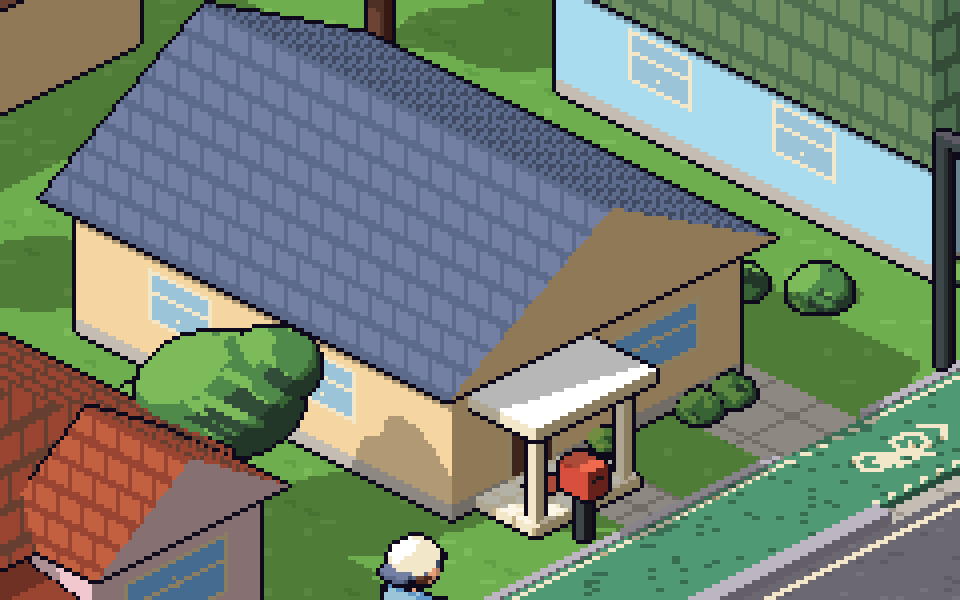
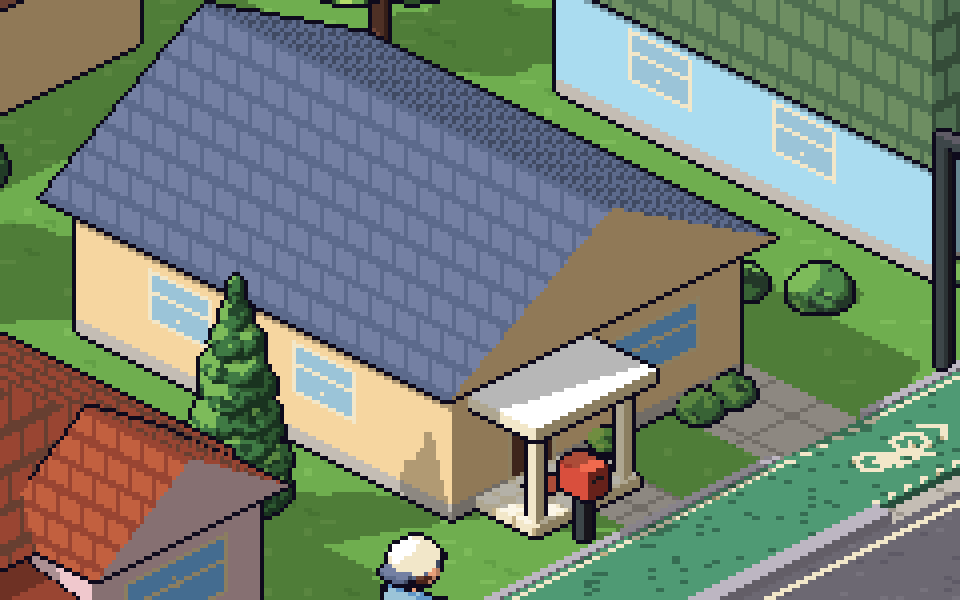
art: tiga jenis pohon perumahan
- lib: pohon rindang (batang bercabang, tajuk bergumpal), glodokan tiang
  (ramping meruncing), ketapang kencana (tajuk datar bertingkat)
- perumahan: pohon halaman dan deret belakang bergantian tiga jenis
- Mock perumahan dirender ulang; ART_DIRECTION 2.6 dan README diperbarui

Claude-Session: https://claude.ai/code/session_01Mx68M7WiMZo9CMYpFx89Kx

diff --git a/tools/env_art/lib.py b/tools/env_art/lib.py
@@ -592,3 +592,115 @@ def antena(s, x, y, z0, z1, n=5, boom=16, seed=0, mat=None, tiang=None):
         s.add(obox(p, side, d, up, L / 2, 0.5, 0.45, mat, part=pid))
     # kawat penahan pendek: elemen kedua lebih rendah di tiang
     s.add(obox(top - up * 5 + d * 1.5, side, d, up, 3.5, 0.45, 0.45, mat, part=pid))
+
+
+# ---------------- pohon perumahan: tiga variasi ----------------
+LEAF_MANGGA = Mat('#8CC860', '#4F8A4A', '#2E5236')
+LEAF_GLODOK = Mat('#7DBB5A', '#3F7A44', '#24482C')
+LEAF_KETAPANG = Mat('#B4DC6A', '#6FAE4F', '#3F6E3A')
+BARK = Mat('#9A6A4E', '#6D4334', '#4A2A20')
+
+
+def _leaf_tex(seed, scale=2.2):
+    def tex(Pw, Nw):
+        cell = np.floor(Pw / scale)
+        h = hash2(cell[:, 0] + cell[:, 2] * 7, cell[:, 1] - cell[:, 2] * 3, seed)
+        d = Nw @ BAKE
+        # gumpalan daun: titik terang di sisi kena cahaya, titik gelap di sisi bayangan
+        sh = np.where((h > 0.7) & (d > 0.35), -1, np.where((h < 0.28) & (d < 0.75), 1, 0))
+        return 0, sh
+    return tex
+
+
+def _limb(s, a, b, r, mat, part):
+    a, b = np.asarray(a, float), np.asarray(b, float)
+    d = b - a
+    L = np.linalg.norm(d)
+    d /= L
+    sd = np.cross(d, [0, 0, 1.0])
+    if np.linalg.norm(sd) < 1e-3:
+        sd = np.array([1.0, 0, 0])
+    sd /= np.linalg.norm(sd)
+    s.add(obox((a + b) / 2, d, sd, np.cross(d, sd), L / 2 + r * 0.4, r, r, mat, part=part))
+    return s.prims[-1].part
+
+
+def tree_rindang(s, x, y, h=22, r=17, seed=0):
+    """Pohon rindang (mangga/kersen): batang bercabang, tajuk lebar dari banyak gumpalan."""
+    rng = np.random.default_rng(seed)
+    s.add(cyl((x, y), 2.4, 0, h * 0.6, mats=BARK))
+    pid = s.prims[-1].part
+    base = np.array([x, y, h * 0.55])
+    tips = []
+    for i in range(3):
+        a = 2 * math.pi * i / 3 + rng.random() * 0.6
+        tip = base + np.array([math.cos(a) * r * 0.45, math.sin(a) * r * 0.45, h * 0.45 + rng.random() * 4])
+        _limb(s, base, tip, 1.3, BARK, pid)
+        tips.append(tip)
+    crown = None
+    tex = _leaf_tex(seed)
+    # gumpalan: satu besar di tengah atas, lalu lingkaran gumpalan di tepi dan bawah
+    blobs = [(np.array([x, y, h + r * 0.55]), r * 0.62)]
+    for i in range(7):
+        a = 2 * math.pi * i / 7 + rng.random() * 0.4
+        rr = r * (0.42 + rng.random() * 0.12)
+        c = np.array([x + math.cos(a) * r * 0.62, y + math.sin(a) * r * 0.62, h + r * (0.15 + rng.random() * 0.3)])
+        blobs.append((c, rr))
+    for t in tips:
+        blobs.append((t + np.array([0, 0, r * 0.25]), r * 0.4))
+    for k, (c, rr) in enumerate(blobs):
+        # gumpalan tepi diberi garis sendiri supaya siluetnya bergelombang
+        s.add(ellip(c, (rr, rr, rr * 0.82), LEAF_MANGGA, tex, part=None if k else crown))
+        crown = crown or s.prims[-1].part
+
+
+def tree_glodokan(s, x, y, h=10, H=58, seed=0):
+    """Glodokan tiang: ramping dan tinggi, tajuk meruncing dari tumpukan gumpalan daun yang makin kecil."""
+    rng = np.random.default_rng(seed)
+    s.add(cyl((x, y), 1.6, 0, h + 4, mats=BARK))
+    crown = None
+    tex = _leaf_tex(seed + 3, 1.8)
+    n = 9
+    for i in range(n):
+        t = i / (n - 1)
+        z = h + (H - h) * t
+        rr = 7.5 * (1 - t) ** 0.8 + 2.0
+        for j in range(3 if t < 0.8 else 1):
+            a = 2 * math.pi * j / 3 + i * 1.3
+            off = rr * 0.35 if t < 0.8 else 0
+            c = np.array([x + math.cos(a) * off, y + math.sin(a) * off, z])
+            s.add(ellip(c, (rr * 0.8, rr * 0.8, 4.2), LEAF_GLODOK, tex, part=crown))
+            crown = s.prims[-1].part
+
+
+def tree_ketapang(s, x, y, H=50, seed=0):
+    """Ketapang kencana: batang lurus, tajuk bertingkat datar seperti payung bersusun."""
+    rng = np.random.default_rng(seed)
+    s.add(cyl((x, y), 1.5, 0, H * 0.94, mats=BARK))
+    pid = s.prims[-1].part
+    tiers = [(H * 0.4, 15.0), (H * 0.6, 12.0), (H * 0.79, 8.5), (H * 0.97, 4.5)]
+    tex = _leaf_tex(seed + 7, 1.6)
+    for k, (z, R) in enumerate(tiers):
+        crown = None
+        # ranting mendatar di tiap tingkat
+        for i in range(4):
+            a = 2 * math.pi * i / 4 + k * 0.7
+            _limb(s, (x, y, z - 1.5), (x + math.cos(a) * R * 0.6, y + math.sin(a) * R * 0.6, z - 0.5), 0.6, BARK, pid)
+        for i in range(5):
+            a = 2 * math.pi * i / 5 + k * 0.9 + rng.random() * 0.3
+            c = np.array([x + math.cos(a) * R * 0.55, y + math.sin(a) * R * 0.55, z])
+            s.add(ellip(c, (R * 0.5, R * 0.5, 1.3), LEAF_KETAPANG, tex, part=crown))
+            crown = s.prims[-1].part
+        s.add(ellip((x, y, z + 0.3), (R * 0.45, R * 0.45, 1.5), LEAF_KETAPANG, tex, part=crown))
+
+
+TREE_KINDS = ('rindang', 'glodokan', 'ketapang')
+
+
+def tree_perumahan(s, x, y, kind, seed=0):
+    if kind == 'rindang':
+        tree_rindang(s, x, y, seed=seed)
+    elif kind == 'glodokan':
+        tree_glodokan(s, x, y, seed=seed)
+    else:
+        tree_ketapang(s, x, y, seed=seed)

diff --git a/tools/env_art/perumahan.py b/tools/env_art/perumahan.py
@@ -272,8 +272,9 @@ def build(s, car_on=True):
         kerb_with_gaps(s, a, b, 2.6, P['kerb'], gaps)
     for i, yc in enumerate(FAR_YC):
         house_far(s, yc, WALLS[i], ROOFS[i], seed=i, carport_car=(i == 3), kind=HOUSE_TYPES[i % 3])
-        if i % 2 == 0:
-            tree_round(s, FX1 - 28, yc + 66, r=15, h=24, seed=i)
+        # pohon di halaman samping, bergantian tiga jenis; sesekali cuma semak
+        if i % 4 != 3:
+            tree_perumahan(s, FX1 - 26, yc + 64, TREE_KINDS[i % 3], seed=i)
         else:
             bush(s, FX1 - 10, yc + 62, 6, seed=i)
             bush(s, FX1 - 22, yc + 70, 5, seed=i + 3)
@@ -281,7 +282,7 @@ def build(s, car_on=True):
         house_near(s, yc, WALLS[(i + 3) % 8], ROOFS[(i + 2) % 8], seed=i)
         bush(s, NX0 - 10, yc + 10, 5, seed=20 + i)
         if i % 2 == 1:
-            tree_round(s, NX1 + 30, yc + 54, r=14, h=22, seed=30 + i)
+            tree_perumahan(s, NX1 + 30, yc + 54, TREE_KINDS[(i + 1) % 3], seed=30 + i)
     # deret rumah di belakang sisi seberang
     for i, yc in enumerate([-420, -300, -180, -60, 60, 180]):
         s.add(box(FX0 - 146, FX0 - 64, yc - 40, yc + 40, 0, 32, P[WALLS[(i + 5) % 8]]))
@@ -290,7 +291,7 @@ def build(s, car_on=True):
         if i % 2 == 1:
             antena(s, FX0 - 100, yc + 10, 32, 68, seed=40 + i)
     for i, yc in enumerate([-370, -250, -130, -10, 110]):
-        tree_round(s, FX0 - 34, yc, r=13, h=26, seed=50 + i, mat=P['leaf'])
+        tree_perumahan(s, FX0 - 34, yc, TREE_KINDS[(i + 2) % 3], seed=50 + i)
     s.add(box(NX1 + 50, NX1 + 54, -900, 900, 0, 14, P['conc']))
     # lampu jalan di tepi luar lajur sepeda sisi seberang, menerangi lajur
     for ly in (-256, 0, 256):

diff --git a/docs/ART_DIRECTION.md b/docs/ART_DIRECTION.md
@@ -143,6 +143,8 @@ Jalan yang lebih lebar membuat lemparan ke sisi dekat butuh swipe panjang; perlu
 
 **Variasi rumah perumahan** (bentuk, bukan cuma warna), diselang-seling di sisi seberang: *limasan* (badan lebar, atap limas, teras di tengah), *pelana* (segitiga atap menghadap jalan dengan lubang angin, teras samping beratap dak), *sayap* (badan utama mundur, ruang depan menonjol beratap pelana kecil, teras di ceruk). Rumah sisi dekat bergantian atap limas, pelana melintang, dan pelana memanjang. Warna dinding dan atap tetap lewat palette swap.
 
+**Pohon perumahan**, tiga jenis bergantian: *rindang* (mangga/kersen: batang bercabang, tajuk lebar dari banyak gumpalan), *glodokan tiang* (ramping, meruncing), *ketapang kencana* (tajuk datar bertingkat).
+
 **Kendaraan:** sedan, angkot (minibus tanpa rak atap), dan bus kecil kota dua warna dengan papan trayek; semuanya punya kaca miring, sudut bodi tumpul, lekuk roda, pelek, dan lampu.
 
 **Palet distrik** tambahan dari palet induk ada di papan "Palet per distrik" (ramp terang · dasar · gelap), dengan color grading ringan per distrik (contoh: perkampungan R ×1,04 B ×0,94, sungai R ×0,97 B ×1,04).
@@ -467,7 +469,7 @@ Jumlah aset adalah penyebab paling umum game solo mangkrak. Penawarnya sudah dib
 
 ## Changelog Keputusan
 
-- **2026-10-07** — **Usulan lingkungan** (bagian 2.6): bayangan berwarna per waktu, pemain setengah color grading, penampang jalan per distrik (lajur sepeda di perumahan, ruko 2 lajur, gang 2 ubin, talud sungai miring), palet enam distrik, detail pinggir jalan dan antena TV, tiga bentuk rumah perumahan, model sedan/angkot/bus kecil. Mock di `design/environment/`, renderer `tools/env_art`. Belum dikunci.
+- **2026-10-07** — **Usulan lingkungan** (bagian 2.6): bayangan berwarna per waktu, pemain setengah color grading, penampang jalan per distrik (lajur sepeda di perumahan, ruko 2 lajur, gang 2 ubin, talud sungai miring), palet enam distrik, detail pinggir jalan dan antena TV, tiga bentuk rumah dan tiga jenis pohon perumahan, model sedan/angkot/bus kecil. Mock di `design/environment/`, renderer `tools/env_art`. Belum dikunci.
 
 - **2026-10-07** — **Sprite produksi Kemeja Agen** (bagian 3.2): 15 animasi kayuh (3 kecepatan × 5 arah, 4 frame maju), sel 46×58, titik pijak (23, 46), SpriteFrames dicek memuat di Godot 4.3. Saat ngebut hanya sepeda yang bergoyang ±5°; badan pengendara stabil supaya kepala tidak bergetar di 12 fps.
 - **2026-10-07** — **Audit sprite sebelum produksi**: roda depan tidak lagi terpotong saat setang belok (seluruh rakitan depan berputar bersama), condong dan setang saat belok dikecilkan, wajah dari depan memakai dua mata dan mulut, topi diberi pita dan pet dongker supaya terbaca terbalik, bahu dilebarkan supaya lengan terlihat dari belakang, rangka sepeda dua nada dan lebih tipis, pose ngebut dibuat lebih tegak dengan sadel terlihat.

diff --git a/tools/env_art/README.md b/tools/env_art/README.md
@@ -29,7 +29,7 @@ Hasil masuk ke `build/env_art/` (tidak di-commit, bisa diganti lewat `ENV_ART_OU
 | File | Isi |
 |---|---|
 | `engine.py` | Primitif, ray cast, nada, bayangan, lampu, glow, garis luar, penempelan sprite, `TIMES` |
-| `lib.py` | Palet induk + tambahan, tekstur dinding/atap/tanah, pohon, semak, kotak surat, lampu jalan, sedan, angkot, bus kecil, motor, ayam, jemuran, kabel, asap, antena TV |
+| `lib.py` | Palet induk + tambahan, tekstur dinding/atap/tanah, pohon (termasuk `TREE_KINDS`: rindang, glodokan, ketapang), kelapa, semak, kotak surat, lampu jalan, sedan, angkot, bus kecil, motor, ayam, jemuran, kabel, asap, antena TV |
 | `perumahan.py` | Jalan perumahan: aspal 3 ubin, lajur sepeda di kedua sisi, tiga bentuk rumah (`HOUSE_TYPES`: limasan, pelana, sayap) |
 | `kampung.py` | Gang perkampungan 2 ubin: rumah rapat, warung, jemuran melintang, halaman, tiang listrik |
 | `districts.py` | Ruko, pasar, desa, pinggir sungai, dan vinyet enam distrik |
